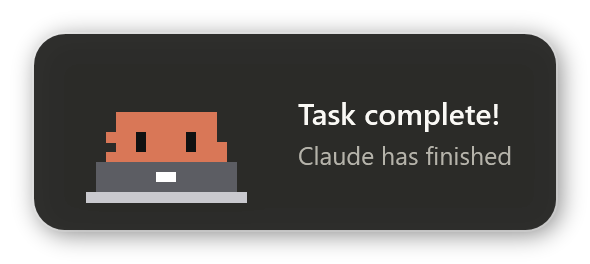
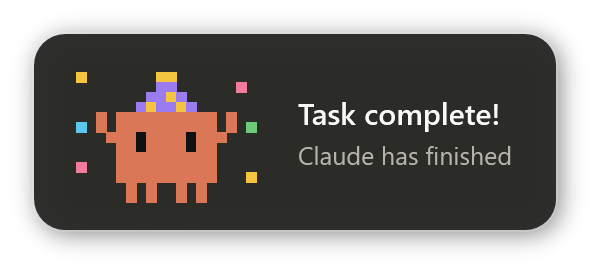
Rework poses: new love and trophy, add check and finish, drop sleepy and cool
- love: hearts float up beside Clawd, happy eyes and blush
- trophy: taller cup with loop handles, lifted with one arm
- check: big green check mark; finish: waving checkered flag
- remove sleepy and cool; render tool now deletes images of removed poses
- README: party is the hero screenshot, pose table updated

diff --git a/README.md b/README.md
@@ -21,9 +21,9 @@
 
 | | | | |
 |:-:|:-:|:-:|:-:|
-| <img src="poses/cheer.gif" width="150"><br>`cheer` | <img src="poses/wave.gif" width="150"><br>`wave` | <img src="poses/laptop.gif" width="150"><br>`laptop` | <img src="poses/sleepy.gif" width="150"><br>`sleepy` |
-| <img src="poses/coffee.gif" width="150"><br>`coffee` | <img src="poses/party.gif" width="150"><br>`party` | <img src="poses/love.gif" width="150"><br>`love` | <img src="poses/cool.gif" width="150"><br>`cool` |
-| <img src="poses/dance.gif" width="150"><br>`dance` | <img src="poses/trophy.gif" width="150"><br>`trophy` | <img src="poses/alert.gif" width="150"><br>`alert` | <img src="poses/confused.gif" width="150"><br>`confused` |
+| <img src="poses/cheer.gif" width="150"><br>`cheer` | <img src="poses/wave.gif" width="150"><br>`wave` | <img src="poses/laptop.gif" width="150"><br>`laptop` | <img src="poses/coffee.gif" width="150"><br>`coffee` |
+| <img src="poses/party.gif" width="150"><br>`party` | <img src="poses/love.gif" width="150"><br>`love` | <img src="poses/dance.gif" width="150"><br>`dance` | <img src="poses/trophy.gif" width="150"><br>`trophy` |
+| <img src="poses/check.gif" width="150"><br>`check` | <img src="poses/finish.gif" width="150"><br>`finish` | <img src="poses/alert.gif" width="150"><br>`alert` | <img src="poses/confused.gif" width="150"><br>`confused` |
 
 «Задача готова» выбирает из первых десяти поз, «нужно внимание» — из `alert`, `confused` и `wave`.
 Статичные PNG всех поз лежат в [`poses/`](poses).

diff --git a/README.en.md b/README.en.md
@@ -21,9 +21,9 @@ who slides in from the corner of the screen, strikes a random pose and plays a t
 
 | | | | |
 |:-:|:-:|:-:|:-:|
-| <img src="poses/cheer.gif" width="150"><br>`cheer` | <img src="poses/wave.gif" width="150"><br>`wave` | <img src="poses/laptop.gif" width="150"><br>`laptop` | <img src="poses/sleepy.gif" width="150"><br>`sleepy` |
-| <img src="poses/coffee.gif" width="150"><br>`coffee` | <img src="poses/party.gif" width="150"><br>`party` | <img src="poses/love.gif" width="150"><br>`love` | <img src="poses/cool.gif" width="150"><br>`cool` |
-| <img src="poses/dance.gif" width="150"><br>`dance` | <img src="poses/trophy.gif" width="150"><br>`trophy` | <img src="poses/alert.gif" width="150"><br>`alert` | <img src="poses/confused.gif" width="150"><br>`confused` |
+| <img src="poses/cheer.gif" width="150"><br>`cheer` | <img src="poses/wave.gif" width="150"><br>`wave` | <img src="poses/laptop.gif" width="150"><br>`laptop` | <img src="poses/coffee.gif" width="150"><br>`coffee` |
+| <img src="poses/party.gif" width="150"><br>`party` | <img src="poses/love.gif" width="150"><br>`love` | <img src="poses/dance.gif" width="150"><br>`dance` | <img src="poses/trophy.gif" width="150"><br>`trophy` |
+| <img src="poses/check.gif" width="150"><br>`check` | <img src="poses/finish.gif" width="150"><br>`finish` | <img src="poses/alert.gif" width="150"><br>`alert` | <img src="poses/confused.gif" width="150"><br>`confused` |
 
 *Task complete* uses the first ten. *Claude needs you* uses `alert`, `confused` and `wave`.
 Static PNGs of every pose are in [`poses/`](poses).
